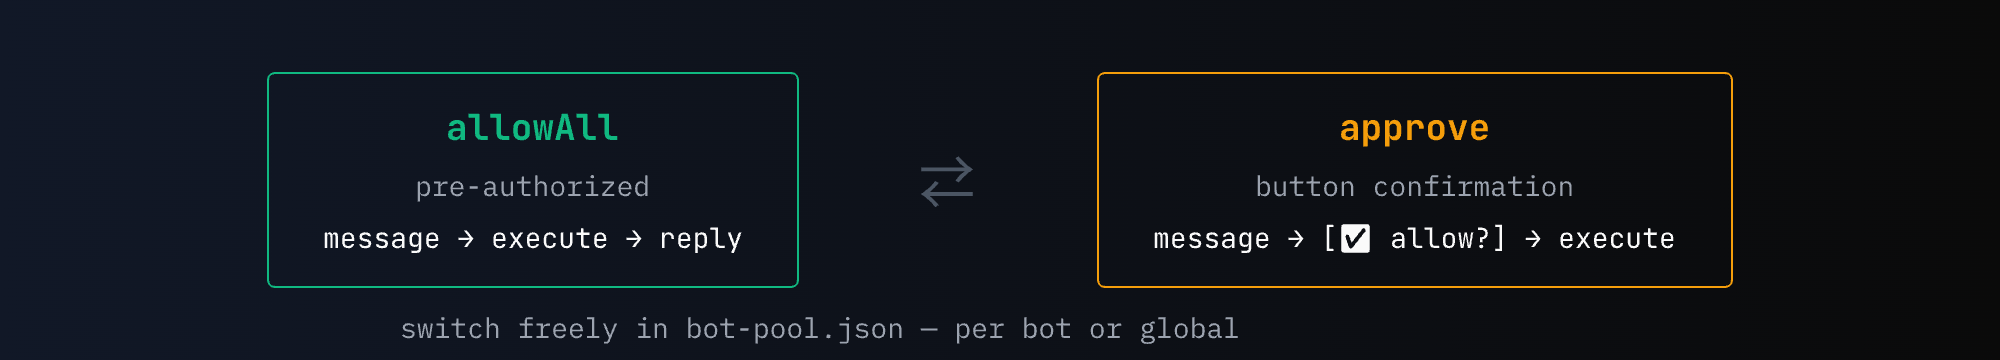
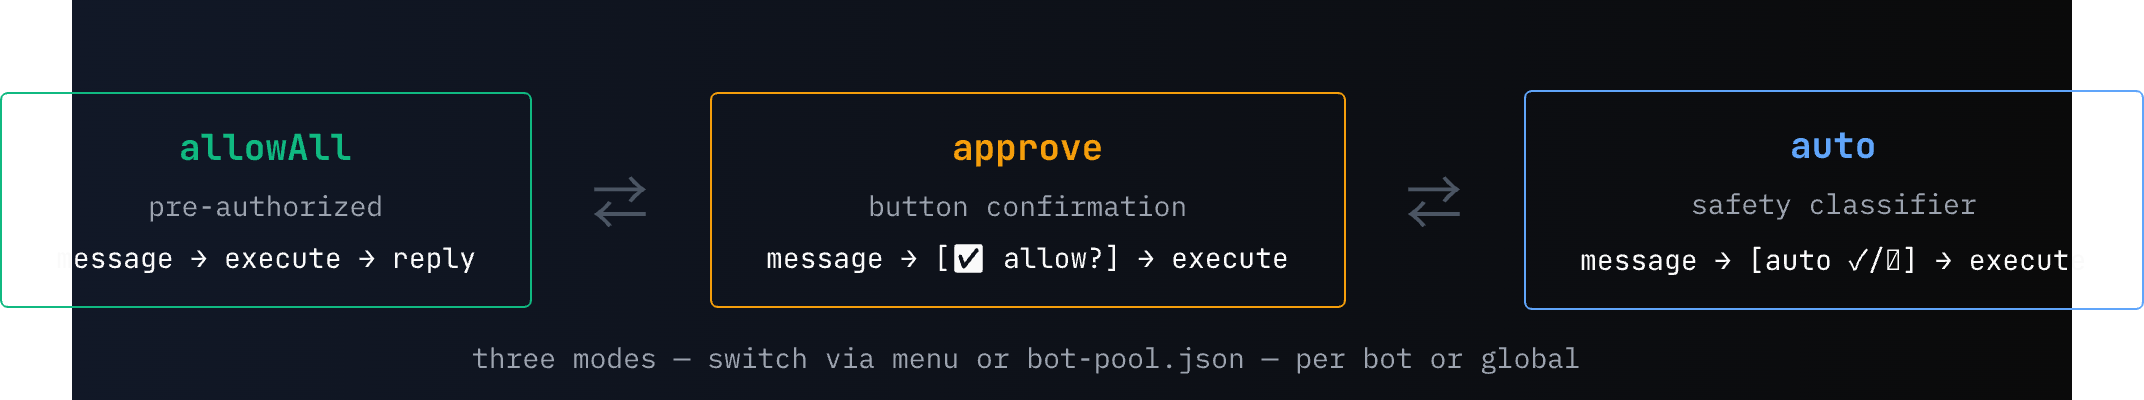
feat: redesign concept + permission images with Pencil
- Concept architecture: team → devices → Telegram → Master Bot →
  Project Bots → Codebases, dark theme with color-coded layers
- Permission diagram: now shows all 3 modes (allowAll, approve, auto)
  with distinct colors and flow descriptions
- Remove old draw.io source file
- Add concept image to CN README

diff --git a/README_CN.md b/README_CN.md
@@ -35,6 +35,10 @@ claude-crew 让一个 Telegram 机器人变成完整的项目管理团队。
 
 **主控机器人**是你的控制中心 —— 添加项目机器人、修改配置、管理团队权限、监控所有项目状态，全部通过手机上的按钮菜单完成。每个**项目机器人**对接一个代码仓库，@提及即可执行 Claude Code 任务。一人群控，或邀请团队 —— 同一个群，所有项目，各司其职。
 
+<p align="center">
+  <img src="docs/concept.png" alt="claude-crew concept" width="100%">
+</p>
+
 ## 🎯 三种使用模式
 
 ### 1:1 专注模式

diff --git a/README.md b/README.md
@@ -35,6 +35,10 @@ claude-crew turns a single Telegram bot into a complete project management team.
 
 Your **master bot** is the control center — add project bots, configure settings, manage team access, and monitor all projects from an interactive button menu on your phone. Each **project bot** connects to a codebase and runs Claude Code tasks on @mention. Go solo or invite your team — one group, all projects, everyone in their lane.
 
+<p align="center">
+  <img src="docs/concept.png" alt="claude-crew concept" width="100%">
+</p>
+
 ## 🎯 Three Ways to Use
 
 ### 1:1 Focus Mode
